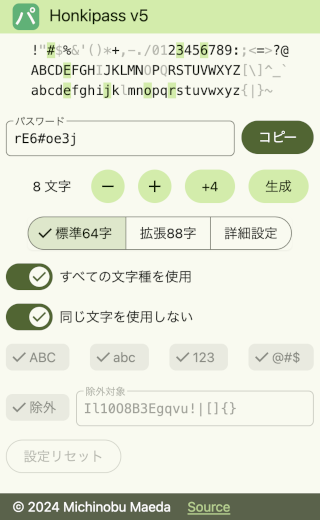
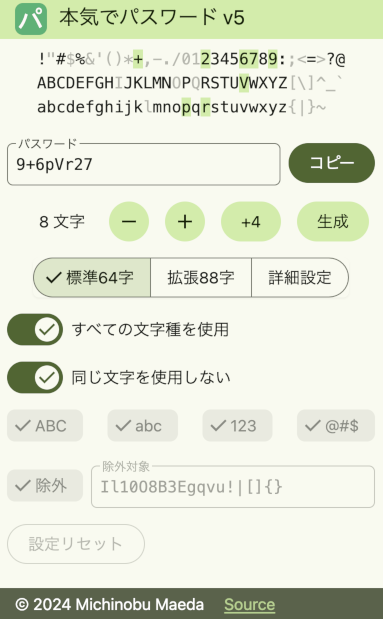
change title

diff --git a/vite.config.js b/vite.config.js
@@ -1,36 +1,39 @@
-import { VitePWA } from 'vite-plugin-pwa';
-import { defineConfig } from 'vite'
-import { svelte } from '@sveltejs/vite-plugin-svelte'
+import { VitePWA } from "vite-plugin-pwa";
+import { defineConfig } from "vite";
+import { svelte } from "@sveltejs/vite-plugin-svelte";
 
 // https://vitejs.dev/config/
 export default defineConfig({
-  plugins: [svelte(), VitePWA({
-    registerType: 'prompt',
-    injectRegister: false,
+  plugins: [
+    svelte(),
+    VitePWA({
+      registerType: "prompt",
+      injectRegister: false,
 
-    pwaAssets: {
-      disabled: false,
-      config: true,
-    },
+      pwaAssets: {
+        disabled: false,
+        config: true,
+      },
 
-    manifest: {
-      name: 'honkipass5',
-      short_name: 'honkipass5',
-      description: 'honkipass5',
-      theme_color: '#ffffff',
-    },
+      manifest: {
+        name: "honkipass5",
+        short_name: "本気でパスワード v5",
+        description: "honkipass5",
+        theme_color: "#63A002",
+      },
 
-    workbox: {
-      globPatterns: ['**/*.{js,css,html,svg,png,ico}'],
-      cleanupOutdatedCaches: true,
-      clientsClaim: true,
-    },
+      workbox: {
+        globPatterns: ["**/*.{js,css,html,svg,png,ico}"],
+        cleanupOutdatedCaches: true,
+        clientsClaim: true,
+      },
 
-    devOptions: {
-      enabled: false,
-      navigateFallback: 'index.html',
-      suppressWarnings: true,
-      type: 'module',
-    },
-  })],
-})
+      devOptions: {
+        enabled: false,
+        navigateFallback: "index.html",
+        suppressWarnings: true,
+        type: "module",
+      },
+    }),
+  ],
+});

diff --git a/index.html b/index.html
@@ -4,7 +4,7 @@
     <meta charset="UTF-8" />
 
     <meta name="viewport" content="width=device-width, initial-scale=1.0" />
-    <title>honkipass5</title>
+    <title>本気でパスワード v5</title>
   </head>
   <body>
     <div id="app"></div>

diff --git a/src/lib/Header.svelte b/src/lib/Header.svelte
@@ -12,6 +12,6 @@
       text-lightOnPrimaryContainer dark:text-darkOnPrimaryContainer"
   >
     <img src={appLogo} alt="Honkipass v5 Logo" class="w-8 h-8 mr-2" />
-    Honkipass v5
+    本気でパスワード v5
   </h1>
 </header>

diff --git a/README.md b/README.md
@@ -2,7 +2,7 @@
 
 Sample: https://honkipass.michinobu.jp/
 
-![Honkipass v5 UI](honkipass5.png)
+![本気でパスワード v5](honkipass5.png)
 
 ## Prerequisites
 
